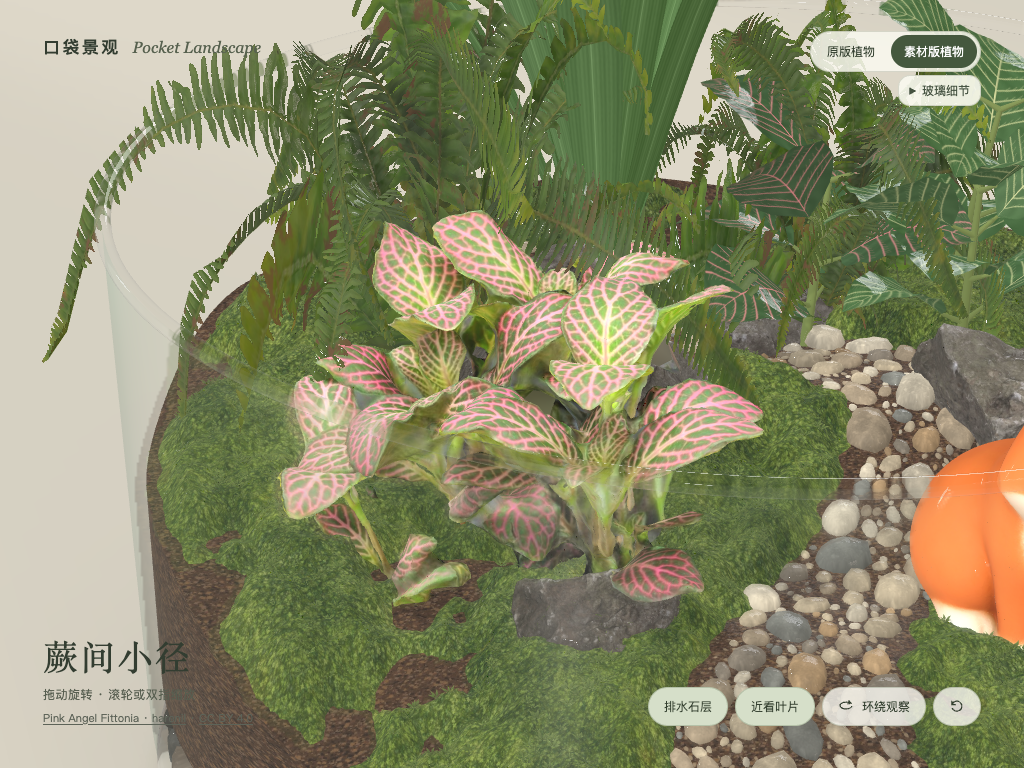
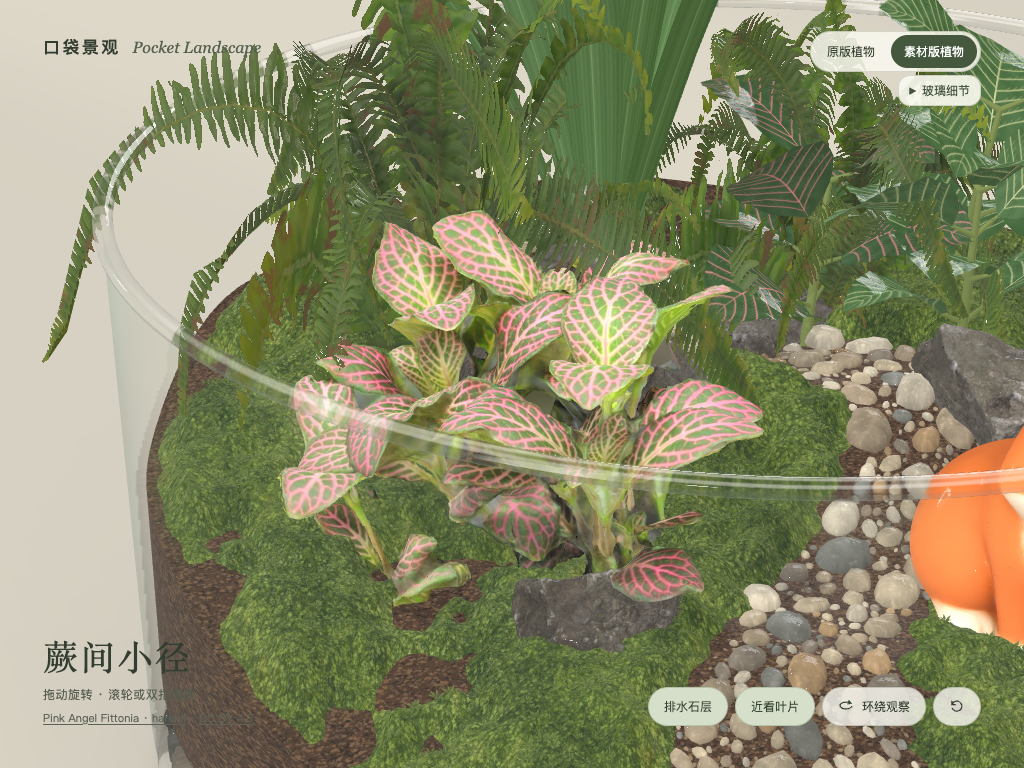
调整厚底与卷口的窗光反射并按视距校正杯壁折射

diff --git a/source/glass.js b/source/glass.js
@@ -1,5 +1,5 @@
 import {
-  Color3, Constants, Mesh, MeshBuilder, PBRMaterial, RawTexture, RenderTargetTexture,
+  Color3, Constants, MaterialPluginBase, Mesh, MeshBuilder, PBRMaterial, RawTexture, RenderTargetTexture,
   ShaderMaterial, Texture, Vector2, Vector3,
 } from '@babylonjs/core';
 
@@ -15,6 +15,21 @@ void main() {
   p = (world * vec4(position, 1.)).xyz;
   n = normalize(mat3(world) * normal);
   gl_Position = worldViewProjection * vec4(position, 1.);
+}`;
+
+// Studio windows and a dark flag give curved clear glass a reflection to carry
+// across both pale tabletop and dark foliage. Directions stay fixed in the room.
+const studioCards = `
+vec2 glassStudio(vec3 r) {
+  float a = atan(r.x,r.z);
+  float tall = smoothstep(-.62,-.40,r.y)*(1.-smoothstep(.54,.80,r.y));
+  float left = 1.-smoothstep(.10,.24,abs(a+.95));
+  float right = 1.-smoothstep(.035,.085,abs(a-1.33));
+  float ceiling = smoothstep(.38,.72,r.y)*(1.-smoothstep(.85,.99,r.y));
+  float white = max(tall*max(left,.75*right), .83*ceiling);
+  float flag = max(1.-smoothstep(-.65,-.25,r.y),
+                   .69*tall*(1.-smoothstep(.09,.25,abs(a+1.31))));
+  return vec2(white,flag);
 }`;
 
 const FS = `
@@ -40,7 +55,7 @@ uniform float dropTime;
 float hash(float n) { return fract(sin(n*127.1 + 7.2)*43758.5453); }
 float dropShape(float a, float y, out vec2 offset) {
   // Wrapped cylindrical cells: the pattern meets cleanly at the Lathe seam.
-  float ua = (a / 6.28318530718 + .5)*23.;
+  float ua = fract(a / 6.28318530718 + .5)*23.;
   float id = floor(ua);
   float h = hash(id);
   float drifts = step(.73,hash(id+19.));
@@ -52,21 +67,22 @@ float dropShape(float a, float y, out vec2 offset) {
   vec2 drop = field / vec2(.012+.012*h,.020+.032*h);
   float profile = 1. - smoothstep(.63, 1.1, length(drop));
   float trail = (1.-smoothstep(.014,.030,abs(field.x))) *
-    smoothstep(-.19,-.035,field.y) * (1.-smoothstep(-.035,.005,field.y));
+    smoothstep(.005,.032,field.y) * (1.-smoothstep(.032,.16,field.y));
   offset = clamp(drop, vec2(-1.), vec2(1.))*profile;
-  return isOn*max(profile,.24*trail);
+  return isOn*max(profile,.17*drifts*trail);
 }
 #endif
+${studioCards}
 void main() {
   vec3 N = normalize(n);
   vec3 V = normalize(eye - p);
   float f = pow(1. - abs(dot(N,V)), 3.);
   vec3 r = reflect(-V,N);
-  float a = atan(r.x,r.z);
-  float strip = exp(-pow((a+.95)/.15,2.)) + .72*exp(-pow((a-1.33)/.045,2.));
-  float h = smoothstep(.07,.19,p.y)*(1.-smoothstep(1.47,1.62,p.y));
-  float b = clamp(strip*h,0.,1.);
-  vec3 c = mix(vec3(.49,.57,.51),vec3(1.,.995,.96),max(b,clamp(r.y*1.2+.2,0.,1.)*edge));
+  vec2 cards = glassStudio(r);
+  float h = smoothstep(.07,.18,p.y);
+  float b = cards.x*h;
+  vec3 c = mix(vec3(.48,.55,.50),vec3(1.,.995,.96),max(b,clamp(r.y*1.2+.2,0.,1.)*edge));
+  c = mix(c,vec3(.19,.24,.22),cards.y*(.23+.43*f));
 #ifdef HDR_WALL
   // Use the same right-handed cube direction as the PBR reflection path.
   vec3 light = textureCube(reflection, vec3(r.xy, -r.z)).rgb;
@@ -74,7 +90,7 @@ void main() {
   float peak = clamp(max(max(highlight.r,highlight.g),highlight.b),0.,1.);
   c = mix(c, highlight, .32 + .22 * f);
   // A thin wall should hardly obscure the scene, except at the silhouette and softboxes.
-  float opacity = .005 + f * (.14 + .13 * peak) + b * .115;
+  float opacity = .005 + f * (.14 + .13 * peak) + b * (.075+.14*f) + cards.y*f*.06;
 #else
   float opacity = .014 + f*.29 + b*.20 + edge*(.19+.28*f);
 #endif
@@ -87,9 +103,13 @@ void main() {
   vec2 uv = gl_FragCoord.xy/screenSize;
   vec2 limit = 2./screenSize;
   vec3 direction = refract(-V,N,1./1.46);
-  vec3 straight = (view*vec4(-V,0.)).xyz;
-  vec3 bent = (view*vec4(direction,0.)).xyz;
-  vec2 bend = clamp((bent.xy - straight.xy)*(.14*path)*viewScale,vec2(-.011),vec2(.011));
+  // Reproject the exit point on the inner interface. The projected shift
+  // naturally grows at close range and accounts for an off-centre view ray.
+  vec3 start = (view*vec4(p,1.)).xyz;
+  vec3 exitPoint = start + (view*vec4(direction,0.)).xyz *
+    (mix(.018,.048,mapValue)*opticalScale / max(.2,-dot(direction,N)));
+  vec2 bend = .5*viewScale*(exitPoint.xy/max(.05,-exitPoint.z) - start.xy/max(.05,-start.z));
+  bend = clamp(bend,vec2(-.012),vec2(.012));
   float azimuth = atan(p.x,p.z);
   vec2 dropNormal = vec2(0.);
   float drop = 0.;
@@ -98,9 +118,12 @@ void main() {
   float mist = 0.;
   if (fogOn > .5) {
     float mottling = .48 + .30*sin(9.*azimuth+2.7*p.y) + .15*sin(15.*azimuth-9.*p.y);
-    mist = smoothstep(.81,.99,y)*(.31+.69*clamp(mottling,0.,1.));
+    mist = smoothstep(.76,.97,y)*(1.-smoothstep(.982,1.,y))*smoothstep(.25,.85,mottling);
   }
-  vec2 sampleUV = clamp(uv+bend+dropNormal*drop*.006,limit,1.-limit);
+  vec3 tangent = vec3(cos(azimuth),0.,-sin(azimuth));
+  vec3 lens = tangent*dropNormal.x+vec3(0.,dropNormal.y,0.);
+  vec2 dropBend = (view*vec4(lens,0.)).xy*viewScale*.004/max(.8,-start.z);
+  vec2 sampleUV = clamp(uv+bend+dropBend*drop,limit,1.-limit);
   vec3 transmitted = max(texture2D(contents,sampleUV).rgb,vec3(0.));
   if (mist > .01) {
     vec2 spread = vec2(.0032,.002) * mist;
@@ -116,7 +139,7 @@ void main() {
   vec3 glass = mix(transmitted,c,.03+.32*f5+.18*b);
   glass = mix(glass,vec3(.90,.94,.89),.27*mist+glint);
   float valid = smoothstep(.001,.024,min(min(uv.x,uv.y),min(1.-uv.x,1.-uv.y)));
-  float optical = (.14+.34*f5+.21*mist+.26*drop)*valid;
+  float optical = (.034+.50*f5+.18*mist+.26*drop)*valid;
   // Combine the original HDR silhouette + weak centered transmission without
   // drawing an additional wall. The center remains largely direct view.
   float combined = optical + opacity*(1.-optical);
@@ -138,10 +161,13 @@ export function glassInnerRadiusAt(y) {
   }
   return WALL[WALL.length-1][0]-INNER_WALL_INSET;
 }
-const FOOT = [[1.22,.030],[1.295,.021],[1.332,.041],[1.345,.066],[1.346,.095],[1.333,.115],[1.299,.123],[1.24,.105]];
+// Rounded heel with a short contact land and a curved shoulder next to the gravel.
+const FOOT = [[1.22,.030],[1.255,.015],[1.282,.010],[1.300,.010],[1.316,.016],
+  [1.330,.028],[1.340,.046],[1.345,.064],[1.345,.081],[1.341,.099],
+  [1.331,.112],[1.316,.120],[1.298,.123],[1.274,.119],[1.24,.105]];
 const LIP = Array.from({length:21}, (_, i) => {
   const a = i * Math.PI / 10;
-  return [1.365 + .017*Math.cos(a), 1.43 + .018*Math.sin(a)];
+  return [1.365 + .021*Math.cos(a), 1.43 + .019*Math.sin(a)];
 });
 
 function profile(scene, name, shape, alphaIndex) {
@@ -177,6 +203,26 @@ function overlay(scene, name, edge, hdr, optics) {
   return m;
 }
 
+class PolishedEdge extends MaterialPluginBase {
+  constructor(material) {
+    super(material,'Polished edge studio reflections',205);
+    this._enable(true);
+  }
+  getCustomCode(stage) {
+    if(stage!=='fragment') return null;
+    return {
+      CUSTOM_FRAGMENT_DEFINITIONS:studioCards,
+      CUSTOM_FRAGMENT_BEFORE_FOG:`
+        vec3 reflectedView=reflect(-viewDirectionW,normalW);
+        vec2 cards=glassStudio(reflectedView);
+        float grazing=pow(1.-clamp(abs(dot(normalW,viewDirectionW)),0.,1.),3.);
+        finalColor.rgb=mix(finalColor.rgb,vec3(.095,.14,.12),cards.y*(.24+.28*grazing));
+        finalColor.rgb=mix(finalColor.rgb,vec3(1.26,1.24,1.17),cards.x*(.49+.32*grazing));
+      `,
+    };
+  }
+}
+
 function transmission(scene, name, hdr, capture, thickness, roughness, mix) {
   const m = new PBRMaterial(name, scene);
   m.metallic = 0;
@@ -202,6 +248,7 @@ function transmission(scene, name, hdr, capture, thickness, roughness, mix) {
   m.useRadianceOverAlpha = false;
   m.useSpecularOverAlpha = false;
   m.alpha = mix;
+  new PolishedEdge(m);
   return m;
 }
 
@@ -235,8 +282,8 @@ void main() {
   vec2 q = vec2(uv.x*.74,uv.y);
   float r = length(q);
   float sector = smoothstep(-.13,.89,uv.x);
-  float line = exp(-pow((r-1.21)/.046,2.));
-  float halo = exp(-pow((r-1.24)/.124,2.));
+  float line = exp(-pow(abs(r-1.21)/.046,2.));
+  float halo = exp(-pow(abs(r-1.24)/.124,2.));
   float wave = .76+.24*cos(8.*atan(q.y,q.x));
   gl_FragColor = vec4(1.,.965,.84,(.125*line+.024*halo)*sector*wave);
 }`;
@@ -320,8 +367,8 @@ export function installGlass(scene, camera, hdr, contents, {forceLightweight = f
   const screenSize = new Vector2(), viewScale = new Vector2();
   let dropTime = 0;
   wall.material = front;
-  foot.material = transmission(scene, 'Thick optical foot', hdr, capture, .115, .030, .46);
-  rim.material = transmission(scene, 'Rolled optical rim', hdr, capture, .034, .021, .49);
+  foot.material = transmission(scene, 'Thick optical foot', hdr, capture, .115, .025, .43);
+  rim.material = transmission(scene, 'Rolled optical rim', hdr, capture, .034, .017, .66);
   return {
     highQuality:true, setLayer,
     update() {

diff --git a/docs/glass-optics.md b/docs/glass-optics.md
@@ -2,10 +2,12 @@
 
 这是 [#5](https://github.com/xiaoiver/pocket-landscape/issues/5) 在卷口、底足之后的续作。
 
-- **侧壁**：圆柱外壁用 64×1 单通道厚度图，厚底肩、薄中段、加厚卷口。图值经 0.018–0.048 场景单位范围映射，再按视角延长光路。折射投影偏移限制在屏幕尺寸约 1.1%，中心混合很轻；线性光中的 Beer–Lambert 衰减使较厚、掠射区域略偏绿。光学厚度用于材质校准，不是几何测量。保留窗光 HDR 反射和旧卷口/底足的光学装配。
-- **水汽**：顶部局部模糊和浅雾由侧壁着色器完成；少量水珠贴在圆柱世界坐标上，部分缓慢下滑，系统「减少动态效果」会冻结水珠。桌面光斑是按方向光旋转的程序式近似焦散，不是光线追踪。三项在「玻璃细节」中单独开启/关闭，也可用初始参数 `?fog=0&drops=0&caustic=0` 比较。
+- **侧壁**：圆柱外壁用 64×1 单通道厚度图，厚底肩、薄中段、加厚卷口。图值经 0.018–0.048 场景单位范围映射，再按视角延长光路。折射光线按 Snell 定律穿过局部厚度，再把出口重投影到相机。屏幕偏移每轴最多 1.2%，正视薄壁时折射图仅混合 3.4%；线性光中的 Beer–Lambert 衰减使较厚、掠射区域略偏绿。光学厚度用于材质校准，不是几何测量。杯壁、卷口和底足共用一组固定在场景中的窗光和暗部反射，叠加在 HDR 环境反射上。观察角度变化时，高光沿卷口的圆弧和底足的圆角移动。
+- **水汽**：浅雾集中在杯口下方的局部区域。水珠沿圆柱切面扰动透射画面，滑动水珠的湿痕留在上方，系统「减少动态效果」会冻结水珠。桌面光斑是按方向光旋转的程序式近似焦散，不是光线追踪。三项在「玻璃细节」中单独开启/关闭，也可用初始参数 `?fog=0&drops=0&caustic=0` 比较。
 - **预算**：共享 #7 的一次半分辨率线性半浮点捕捉，不为侧壁再加捕捉；不采样自身。桌面光斑是单张可关闭网格。粗指针或缺少过滤/渲染半浮点支持时保留原轻量玻璃，也可用 `?glass=lightweight`。无新增依赖、联网资源或离线打包变化。
 - **土壁交界**：源模型 `source/model.py` 的土壁并非从底到顶均为 1.32 半径。在 y=.082 处土半径约 1.28964，内壁约 1.30825；y=.13 处土半径约 1.31736，内壁约 1.33292，剖面匹配的最小间隙约 **0.0156 场景单位**。只据源码剖面，苔藓或碎石局部越界仍需原素材目检；没有改动 GLB 或 Blender 源文件。
+
+![卷口和厚底的实际场景近景，左为调整前，右为调整后](glass-detail.jpg)
 
 ## 可重复验收
 
@@ -14,4 +16,4 @@
 3. 逐项开关凝雾、水珠、桌面焦散；打开正常动画确认水珠移动，再回减少动态效果确认静止。以相同镜头做素材版 → 原版 → 素材版，确认透过壁面的植物也同步切换，镜头不重置。近看叶片、往高俯角旋转、缩放和改变窗口纵横比；重点看土壁、苔藓、卷口接缝。
 4. 对照 `?glass=lightweight` 和粗指针设备，确认细节面板隐藏、没有高质量捕捉。用断网环境打开并检查无请求或控制台/WebGL 错误。
 
-本次浏览器像素验收使用合成 GLB、HDR、影子素材代替不可读的原始私有资产，通过同一单文件页面入口构建。本次没有真实素材观感、跨浏览器或手机实机性能结论。屏幕投影近似仍有边界和遮挡限制，不包含多次反弹、真焦散或色散。
+早期验证使用了合成资产。这一版的截图使用了实际发布的叶片、山石、排水层和陶土狐狸，机位覆盖正面、卷口近景、底足斜侧面和俯视。浏览器验证使用桌面 Chromium。折射仍是基于可见画面的近似，会受屏幕边界和遮挡限制。

diff --git a/README.md b/README.md
@@ -15,7 +15,7 @@ npm ci
 npm run build
 ```
 
-在支持 WebGL 2 的桌面浏览器中打开生成的 `index.html` 即可离线观察。拖动旋转，滚轮或双指缩放。环绕按钮启动慢速旋转，右侧箭头恢复默认视角。
+在支持 WebGL 2 的桌面浏览器中打开生成的 `index.html` 即可离线观察。拖动旋转，滚轮或双指缩放。环绕按钮启动慢速旋转，右侧箭头恢复默认视角。卷口、厚底的同机位对照和水汽开关说明见[玻璃渲染笔记](docs/glass-optics.md)。
 
 woodland.blend 是内景的可编辑 Blender 工程，已经打包纹理。woodland.glb 是导出的内景。玻璃器皿、窗光、桌面和观察相机在 source/scene.js 中实时创建。
 
